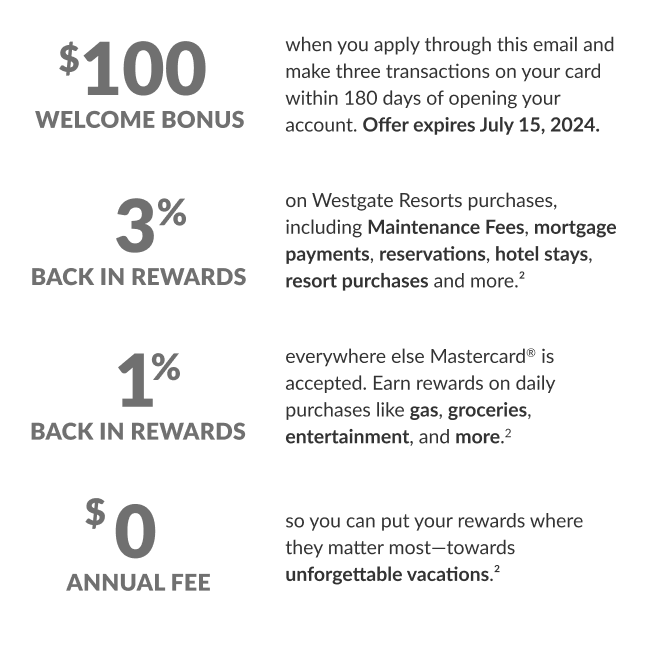
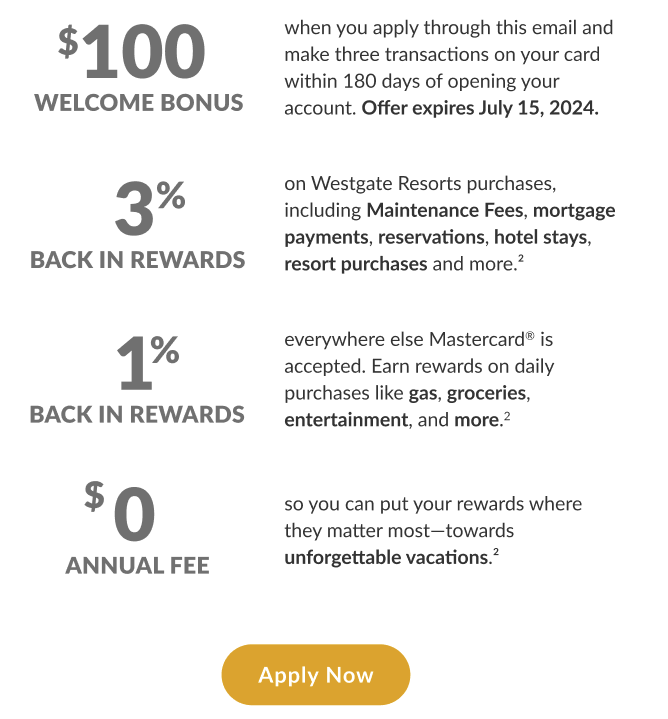
udpates

Changed region(s): [[0.0299, 0.2469, 0.9281, 0.9877], [0.4192, 0.0309, 0.9281, 0.216], [0.0299, 0.0309, 0.3593, 0.216]]

diff --git a/emails/v48b_NOOM_email2_V1.A_5.31-redo/v48b_NOOM_email2_V1.A_5.31-redo.html b/emails/v48b_NOOM_email2_V1.A_5.31-redo/v48b_NOOM_email2_V1.A_5.31-redo.html
@@ -902,7 +902,7 @@
                                       style="text-decoration: none;display: block;line-height: 1;">
                                       <img data-assetid=""
                                         src=
-                                        "https://wgr-emails.s3.us-east-2.amazonaws.com/v48b_NOOM_email2_V1.A_5.31-redo/images/info.png" 
+                                        "https://wgr-emails.s3.us-east-2.amazonaws.com/v48b_NOOM_email2_V1.A_5.31-redo/images/info-1.png" 
                                         alt="Westgate Resorts" width="600"
                                         style="display: block; padding: 0px; text-align: center; height: auto; width: 100%; max-width: 100%; border: 0px;">
                                     </a>
@@ -1006,234 +1006,35 @@
            <div style="background-color:transparent;">
             <div class="block-grid"
               style="Margin: 0 auto; min-width: 320px; max-width: 600px; overflow-wrap: break-word; word-wrap: break-word; word-break: break-word; background-color: #ffffff;">
-              <div
-                style="border-collapse: collapse;display: table;width: 100%;background-color:#ffffff;">
-                <!--[if (mso)|(IE)]><table width="100%" cellpadding="0" cellspacing="0" border="0" style="background-color:transparent;"><tr><td align="center"><table class="table-benefits" cellpadding="0" cellspacing="0" border="0" style="width:600px"><tr class="layout-full-width" style="background-color:#ffffff"><![endif]-->
-                <!--[if (mso)|(IE)]><td align="center" width="600" style="background-color:#ffffff;width:600px; border-top: 0px solid #ffffff; border-left: 0px solid #ffffff; border-bottom: 0px solid #ffffff; border-right: 0px solid #ffffff;" valign="top"><table width="100%" cellpadding="0" cellspacing="0" border="0"><tr><td style="padding-right: 30px; padding-left: 30px; padding-top: 5px; padding-bottom: 32px;"><![endif]-->
+              <div style="border-collapse: collapse;display: table;width: 100%;background-color:#ffffff;">
+                <!--[if (mso)|(IE)]><table width="100%" cellpadding="0" cellspacing="0" border="0" style="background-color:transparent;"><tr><td align="center"><table cellpadding="0" cellspacing="0" border="0" style="width:600px"><tr class="layout-full-width" style="background-color:#ffffff"><![endif]-->
+                <!--[if (mso)|(IE)]><td align="center" width="600" style="background-color:#ffffff;width:600px; border-top: 0px solid transparent; border-left: 0px solid transparent; border-bottom: 0px solid transparent; border-right: 0px solid transparent;" valign="top"><table width="100%" cellpadding="0" cellspacing="0" border="0"><tr><td style="padding-right: 0px; padding-left: 0px; padding-top: 0px; padding-bottom: 0px;"><![endif]-->
                 <div class="col num12"
                   style="min-width: 320px; max-width: 600px; display: table-cell; vertical-align: top; width: 600px;">
                   <div style="width:100% !important;">
                     <!--[if (!mso)&(!IE)]><!-->
-                    <div class="block-benefits block-benefits-full-width"
-                      style="border-top:0px solid #ffffff; border-left:0px solid #ffffff; border-right:0px solid #ffffff; padding-top: 5px; padding-bottom: 32px; padding-right: 30px; padding-left: 30px;">
+                    <div class="block-banner"
+                      style="border-top:0px solid transparent; border-left:0px solid transparent; border-bottom:0px solid transparent; border-right:0px solid transparent; padding-top: 0px; padding-bottom: 0px; padding-right: 0px; padding-left: 0px;">
                       <!--<![endif]-->
-                      <!--[if mso]><table width="100%" cellpadding="0" cellspacing="0" border="0"><tr><td style="padding-right: 0px; padding-left: 0px; padding-top: 0px; padding-bottom: 0px; font-family: Arial, sans-serif;"><![endif]-->
+                      <!--[if mso]><table width="100%" cellpadding="0" cellspacing="0" border="0"><tr><td style="padding-right: 0px; padding-left: 0px; padding-top: 0px; padding-bottom: 0px; font-family: Arial, sans-serif"><![endif]-->
                       <div
-                        style="color:#000000;font-family: 'Lato', 'Helvetica Neue', Helvetica, Arial, sans-serif;line-height:120%;padding-top:0px;padding-right:0px;padding-bottom:0px;padding-left:0px;">
-                        <table cellpadding="0" cellspacing="0" width="100%" role="presentation" border="0"
-                          style="min-width: 100%; table-layout: fixed; border-width: 0; border-color: #ffffff;" class="stylingblock-content-wrapper">
+                        style="color:#555555;font-family: 'Lato', 'Helvetica Neue', Helvetica, Arial, sans-serif;line-height:120%;padding-top:0px;padding-right:0px;padding-bottom:0px;padding-left:0px;">
+                        <table cellpadding="0" cellspacing="0" width="100%" role="presentation"
+                          style="min-width: 100%; " class="stylingblock-content-wrapper">
                           <tr>
-                            <td class="" style="border-radius: 0px;">
-                              <table border="0" class=""
-                                style="border-collapse: separate; table-layout: fixed;border-width: 0; border-color: #ffffff;"
-                                width="100%" cellspacing="0" cellpadding="0" role="presentation" bgcolor="#ffffff">
+                            <td class="">
+                              <table class="" width="100%" cellspacing="0" cellpadding="0" role="presentation"
+                                bgcolor="#ffffff">
                                 <tr>
-                                  <td class=""
-                                    style="padding-top: 0px; padding-bottom: 0px; padding-left: 0px; padding-right: 0px;">
-                                    <table border="0" class=""
-                                      style="border-bottom-color: #ffffff; border-bottom-width: 1px; border-collapse: separate; border-left-color: #ffffff; border-left-width: 1px; border-right-color: #ffffff; border-right-width: 1px; border-style: solid; border-top-color: #ffffff; border-top-width: 1px; table-layout: fixed;"
-                                      width="100%" cellspacing="0" cellpadding="0" role="presentation" bgcolor="#ffffff">
-                                      <tr>
-                                        <td align="center">
-                                          <table border="0" width="100%" cellspacing="0" cellpadding="0" role="presentation">
-                                            <tr>
-                                              <td align="center" class="td-btn-apply-now"
-                                                style="padding-top: 10px; padding-bottom: 0px; padding-left: 0px; padding-right: 0px;">
-                                                <table class="" width="100%" cellspacing="0" cellpadding="0" role="presentation"
-                                                  bgcolor="#ffffff">
-                                                
-                                                  <tr>
-                                                    <tr>
-                                                      <td align="center" border="0">
-                                                        <table border="0" width="100%" cellspacing="" cellpadding="" role="presentation" style="border-collapse: separate; border-color: #ffffff; border-width: 0;">
-                                                          <tr>
-                                                            <td align="center" class="block-benefits-inner block-benefits-inner-2" width="48.50%" 
-                                                              style="padding-top:20px; padding-bottom:20px; padding-left:15px; padding-right:15px; width:38.5%; border-radius:15px 15px 0px 0px; background:#ffffff;">
-                                                              <table class="" border="0" width="100%" cellspacing="0" bgcolor="#ffffff" 
-                                                                cellpadding="0" role="presentation" style="">
-                                                                <tr>
-                                                                  <td class="benefits-col benefits-col-2-1" width="100%" align="center"
-                                                                    valign="middle"
-                                                                    style="color: #707070;vertical-align: middle;padding-top:0px;padding-bottom:0px;padding-left:0px;padding-right:0px;">
-                                                                    <p
-                                                                    style="margin: 0; font-family: 'Lato', 'Helvetica Neue', Helvetica, Arial, sans-serif; font-size: 60px; color: #707070; font-weight: 800; line-height: 100%;"><sup style="line-height: 100%; font-size: 50%;">$</sup>100</p>
-                                                                  </td>
-                                                                </tr>
-                                                                <tr>
-                                                                  <td class="benefits-col benefits-col-2-2" width="100%" align="center"
-                                                                    valign="middle"
-                                                                    style="color: #707070;vertical-align: middle;padding-top:10px;padding-bottom:0px;padding-left:0px;padding-right:0px;">
-                                                                    <p
-                                                                    style="margin: 0; font-family: 'Lato', 'Helvetica Neue', Helvetica, Arial, sans-serif;font-size: 16px; color: #707070; font-weight: 400; line-height: 120%; ">
-                                                                    <p style="color: #707070; font-size: 18px; font-weight: 800; text-transform: uppercase; letter-spacing: 1px; padding-bottom: 8px; line-height: 21.6px;">WELCOME BONUS</p> 
-                                                                  </td>
-                                                                </tr>
-                                                              </table>
-                                                            
-                                                            </td>
-                                                            <td align="center" class="block-benefits-inner block-benefits-inner-3" width="48.50%" style="padding-top:30px; padding-bottom:20px; padding-right:15px; width:48.50%; border-radius:15px 15px 0px 0px; background:#ffffff; ">
-                                                              <table class="" border="0" width="100%" cellspacing="0" bgcolor="#ffffff" 
-                                                                cellpadding="0" role="presentation" style="">
-                                                                <tr>
-                                                                  <td><p>when you apply through this email and make three transactions on your card within 180 days of opening your account. <strong>Offer expires July 15, 2024.</strong></p></td>
-                                                                </tr>
-                                
-                                                              </table>
-                                                            </td>
-                                                          </tr>
-                                                        </table>
-                                                      </td>
-                                                        </tr>
-                                                        <tr>
-                                                        <td align="center" border="0">
-                                                          <table border="0" width="100%" cellspacing="" cellpadding="" role="presentation" style="border-collapse: separate; border-color: #ffffff; border-width: 0;">
-                                                            <tr>
-                                                              <td align="center" class="block-benefits-inner block-benefits-inner-2" width="48.50%" 
-                                                                style="padding-top:20px; padding-bottom:20px; padding-left:15px; padding-right:15px; width:38.5%; border-radius:15px 15px 0px 0px; background:#ffffff;">
-                                                                <table class="" border="0" width="100%" cellspacing="0" bgcolor="#ffffff" 
-                                                                  cellpadding="0" role="presentation" style="">
-                                                                  <tr>
-                                                                    <td class="benefits-col benefits-col-2-1" width="100%" align="center"
-                                                                      valign="middle"
-                                                                      style="color: #707070;vertical-align: middle;padding-top:0px;padding-bottom:0px;padding-left:0px;padding-right:0px;">
-                                                                      <p
-                                                                      style="margin: 0; font-family: 'Lato', 'Helvetica Neue', Helvetica, Arial, sans-serif; font-size: 60px; color: #707070; font-weight: 800; line-height: 100%;">3<sup style="line-height: 100%; font-size: 50%;">%</sup></p>
-                                                                    </td>
-                                                                  </tr>
-                                                                  <tr>
-                                                                    <td class="benefits-col benefits-col-2-2" width="100%" align="center"
-                                                                      valign="middle"
-                                                                      style="color: #707070;vertical-align: middle;padding-top:10px;padding-bottom:0px;padding-left:0px;padding-right:0px;">
-                                                                      <p
-                                                                      style="margin: 0; font-family: 'Lato', 'Helvetica Neue', Helvetica, Arial, sans-serif;font-size: 16px; color: #707070; font-weight: 400; line-height: 120%; ">
-                                                                      <p style="color: #707070; font-size: 18px; font-weight: 800; text-transform: uppercase; letter-spacing: 1px; padding-bottom: 8px; line-height: 21.6px;">BACK IN REWARDS</p> 
-                                                                    </td>
-                                                                  </tr>
-                                                                </table>
-                                                              
-                                                              </td>
-                                                              <td align="center" class="block-benefits-inner block-benefits-inner-3" width="48.50%" style="padding-top:30px; padding-bottom:20px; padding-right:15px; width:48.50%; border-radius:15px 15px 0px 0px; background:#ffffff; ">
-                                                                <table class="" border="0" width="100%" cellspacing="0" bgcolor="#ffffff" 
-                                                                  cellpadding="0" role="presentation" style="">
-                                                                  <tr>
-                                                                    <td><p>on Westgate Resorts purchases, including <strong>Maintenance Fees, mortgage payments, reservations, hotel stays, resort purchases</strong> and <strong>more.</strong><sup style="line-height: 100%; font-size: 50%;">2</sup></p></td>
-                                                                  </tr>
-                                  
-                                                                </table>
-                                                              </td>
-                                                            </tr>
-                                                          </table>
-                                                        </td>
-                                                      </tr>
-                                                      <tr>
-                                                        <td align="center" border="0">
-                                                          <table border="0" width="100%" cellspacing="" cellpadding="" role="presentation" style="border-collapse: separate; border-color: #ffffff; border-width: 0;">
-                                                            <tr>
-                                                              <td align="center" class="block-benefits-inner block-benefits-inner-2" width="48.50%" 
-                                                                style="padding-top:20px; padding-bottom:20px; padding-left:15px; padding-right:15px; width:38.5%; border-radius:15px 15px 0px 0px; background:#ffffff;">
-                                                                <table class="" border="0" width="100%" cellspacing="0" bgcolor="#ffffff" 
-                                                                  cellpadding="0" role="presentation" style="">
-                                                                  <tr>
-                                                                    <td class="benefits-col benefits-col-2-1" width="100%" align="center"
-                                                                      valign="middle"
-                                                                      style="color: #707070;vertical-align: middle;padding-top:0px;padding-bottom:0px;padding-left:0px;padding-right:0px;">
-                                                                      <p
-                                                                      style="margin: 0; font-family: 'Lato', 'Helvetica Neue', Helvetica, Arial, sans-serif; font-size: 60px; color: #707070; font-weight: 800; line-height: 100%;">1<sup style="line-height: 100%; font-size: 50%;">%</sup></p>
-                                                                    </td>
-                                                                  </tr>
-                                                                  <tr>
-                                                                    <td class="benefits-col benefits-col-2-2" width="100%" align="center"
-                                                                      valign="middle"
-                                                                      style="color: #707070;vertical-align: middle;padding-top:10px;padding-bottom:0px;padding-left:0px;padding-right:0px;">
-                                                                      <p
-                                                                      style="margin: 0; font-family: 'Lato', 'Helvetica Neue', Helvetica, Arial, sans-serif;font-size: 16px; color: #707070; font-weight: 400; line-height: 120%; ">
-                                                                      <p style="color: #707070; font-size: 18px; font-weight: 800; text-transform: uppercase; letter-spacing: 1px; padding-bottom: 8px; line-height: 21.6px;">BACK IN REWARDS</p> 
-                                                                    </td>
-                                                                  </tr>
-                                                                </table>
-                                                              
-                                                              </td>
-                                                              <td align="center" class="block-benefits-inner block-benefits-inner-3" width="48.50%" style="padding-top:30px; padding-bottom:20px; padding-right:15px; width:48.50%; border-radius:15px 15px 0px 0px; background:#ffffff; ">
-                                                                <table class="" border="0" width="100%" cellspacing="0" bgcolor="#ffffff" 
-                                                                  cellpadding="0" role="presentation" style="">
-                                                                  <tr>
-                                                                    <td><p>everywhere else Mastercard<sup style="line-height: 100%; font-size: 60%">&reg;</sup> is accepted. Earn rewards on daily purchases like <strong>gas, groceries, entertainment,</strong> and <strong>more.</strong><sup style="line-height: 100%; font-size: 50%;">2</sup></p></td>
-                                                                  </tr>
-                                  
-                                                                </table>
-                                                              </td>
-                                                            </tr>
-                                                          </table>
-                                                        </td>
-                                                      </tr>
-                                                      <tr>
-                                                        <td align="center" border="0">
-                                                          <table border="0" width="100%" cellspacing="" cellpadding="" role="presentation" style="border-collapse: separate; border-color: #ffffff; border-width: 0;">
-                                                            <tr>
-                                                              <td align="center" class="block-benefits-inner block-benefits-inner-2" width="48.50%" 
-                                                                style="padding-top:20px; padding-bottom:20px; padding-left:15px; padding-right:15px; width:38.5%; border-radius:15px 15px 0px 0px; background:#ffffff;">
-                                                                <table class="" border="0" width="100%" cellspacing="0" bgcolor="#ffffff" 
-                                                                  cellpadding="0" role="presentation" style="">
-                                                                  <tr>
-                                                                    <td class="benefits-col benefits-col-2-1" width="100%" align="center"
-                                                                      valign="middle"
-                                                                      style="color: #707070;vertical-align: middle;padding-top:0px;padding-bottom:0px;padding-left:0px;padding-right:0px;">
-                                                                      <p
-                                                                      style="margin: 0; font-family: 'Lato', 'Helvetica Neue', Helvetica, Arial, sans-serif; font-size: 60px; color: #707070; font-weight: 800; line-height: 100%; padding-right: 15px;"><sup style="line-height: 100%; font-size: 50%;">$</sup>0</p>
-                                                                    </td>
-                                                                  </tr>
-                                                                  <tr>
-                                                                    <td class="benefits-col benefits-col-2-2" width="100%" align="center"
-                                                                      valign="middle"
-                                                                      style="color: #707070;vertical-align: middle;padding-top:10px;padding-bottom:0px;padding-left:0px;padding-right:0px;">
-                                                                      <p
-                                                                      style="margin: 0; font-family: 'Lato', 'Helvetica Neue', Helvetica, Arial, sans-serif;font-size: 16px; color: #707070; font-weight: 400; line-height: 120%; ">
-                                                                      <p style="color: #707070; font-size: 18px; font-weight: 800; text-transform: uppercase; letter-spacing: 1px; padding-bottom: 8px; line-height: 21.6px;">Annual Fee</p> 
-                                                                    </td>
-                                                                  </tr>
-                                                                </table>
-                                                              
-                                                              </td>
-                                                              <td align="center" class="block-benefits-inner block-benefits-inner-3" width="48.50%" style="padding-top:30px; padding-bottom:20px; padding-right:15px; width:48.50%; border-radius:15px 15px 0px 0px; background:#ffffff; ">
-                                                                <table class="" border="0" width="100%" cellspacing="0" bgcolor="#ffffff" 
-                                                                  cellpadding="0" role="presentation" style="">
-                                                                  <tr>
-                                                                    <td><p>so you can put your rewards where</br> they matter most—towards <strong></br>unforgettable vacations.</strong><sup style="line-height: 100%; font-size: 50%;">2</sup></p></td>
-                                                                  </tr>
-                                  
-                                                                </table>
-                                                              </td>
-                                                            </tr>
-                                                          </table>
-                                                        </td>
-                                                      </tr>
-                                                    
-                                                  </tr>
-                                                  <tr>
-                                                    <td height="24" align="center" valign="top" class=""
-                                                    style="color: #000000;font-family: Arial, sans-serif;font-size: 24px; line-height: 150%; word-break: break-word; padding-bottom: 0px;">
-                                                    <!--[if mso]> <v:roundrect xmlns:v="urn:schemas-microsoft-com:vml" xmlns:w="urn:schemas-microsoft-com:office:word" href="https://link.imprint.co/e/vE6O1c1SnJb" style="v-text-anchor:middle; height: 60px; width: 430px;" arcsize="50%" fillcolor="#b28517" strokecolor="#b28517" strokeweight="1px" data-btn="1"> <w:anchorlock> </w:anchorlock> <v:textbox inset="0,0,0,0"> <div style="display:none;"> <center class="default-button"><p><span style="color:#ffffff;font-family: Arial, sans-serif;font-size:24px; letter-spacing: 0.12px;"><strong>APPLY NOW</strong></span></p></center> </div> </v:textbox> </v:roundrect> <![endif]-->
-                                                    <!--[if !mso]><!--> 
-                                                    <a href="https://link.imprint.co/e/vE6O1c1SnJb" rel="noopener" class="btn-apply-now" target="_blank" title="APPLY NOW" data-btn="1" style="font-style: normal; font-weight: normal; line-height: 24px; text-decoration: none; word-break: break-word; border-style: solid; word-wrap: break-word; display: inline-block; -webkit-text-size-adjust: none; mso-hide: all; background-color: #DEA508; border-color: #DEA508; border-radius: 40px; border-width: 0px; color: #ffffff; font-family: arial,helvetica,sans-serif; font-size: 24px; height: 24px; padding-bottom: 15px; padding-left: 10px; padding-right: 10px; padding-top: 15px; width: 145px;">
-                                                      <span
-                                                      style="font-family: Lato;
-                                                      font-size: 18px;
-                                                      font-weight: 700;
-                                                      line-height: 22px;
-                                                      letter-spacing: 0.04em;
-                                                      text-align: center;
-                                                      ">Apply Now</span>
-                                                    </a> <!--<![endif]-->
-                                                  </td>
-                                                  </tr>
-                                                
-                                                </table>
-                                              </td>
-                                            </tr>
-                                          </table>
-                                        </td>
-                                      </tr>
-                                    </table>
+                                  <td align="center">
+                                    <a href="https://link.imprint.co/e/vE6O1c1SnJ" target="_blank" rel="noopener" 
+                                      style="text-decoration: none;display: block;line-height: 1;">
+                                      <img data-assetid=""
+                                        src=
+                                        "https://wgr-emails.s3.us-east-2.amazonaws.com/v48b_NOOM_email2_V1.A_5.31-redo/images/info.png" 
+                                        alt="Westgate Resorts" width="600"
+                                        style="display: block; padding: 0px; text-align: center; height: auto; width: 100%; max-width: 100%; border: 0px;">
+                                    </a>
                                   </td>
                                 </tr>
                               </table>
